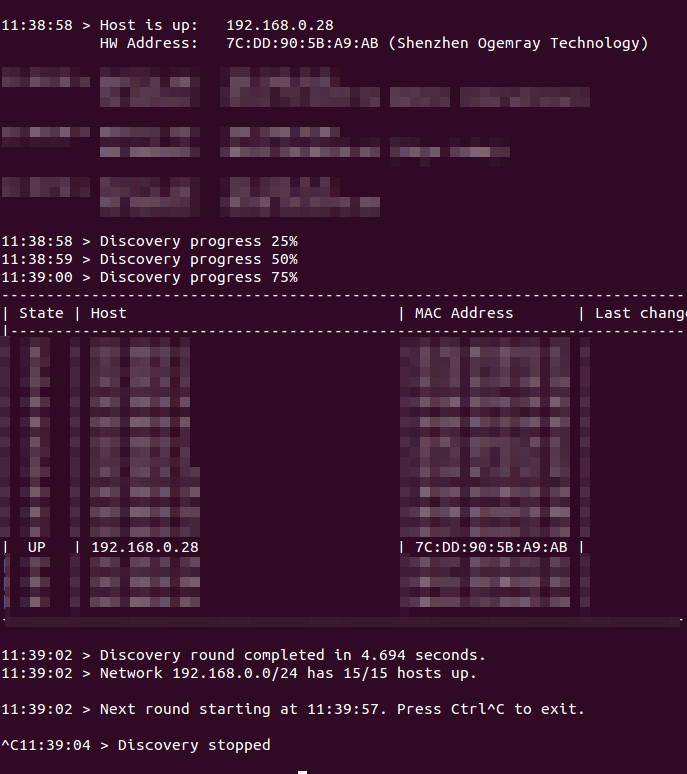
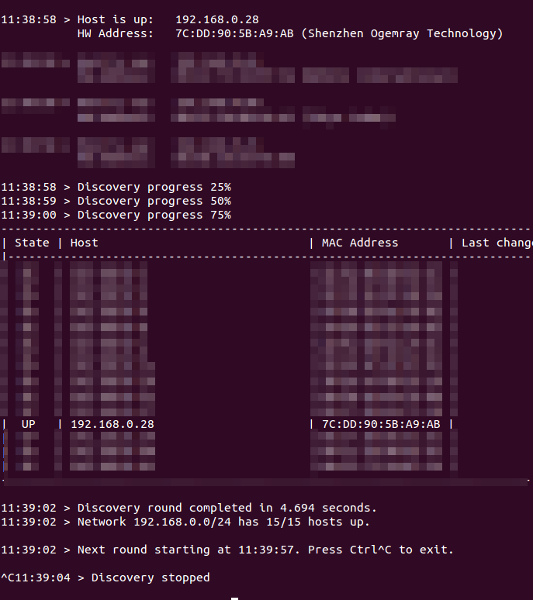
Added images and finished android, debian and ubuntu

diff --git a/handyTipsGuides/findingYourIp.md b/handyTipsGuides/findingYourIp.md
@@ -6,8 +6,28 @@ Windows
 -------
 Coming soon...
 
-Linux (Deb)
+Ubuntu 
 -----
+Tested on Ubuntu 14.04 and 13.10
+First download Fing from Overlook's website, for ubuntu and other debian based operating systems select the DEB and the architecture you are using (This is likely 64-bit on a modern computer).
+
+After it has downloaded click on the icon and then the Ubuntu Software Centre should Load, then click the install button and then fing should be installed.
+Then open up a terminal window and then run the command ```sudo fing``` and fing will run and display a list of all the IP addresses. and their devices. You are looking for the IP address of the device that shows up as Shenzhen Ogemray Technology.
+
+<img src="imageResources/fingUbuntu.png"/>
+
+
+Linux (DEB) Command Line 
+-----
+Tested on Ubuntu 14.04 and 13.10, should be compatible with Debian as well.
+First download Fing by running the following command, change the lx64 to lx32 if you are running a 32 bit version of Linux.
+```wget "http://www.overlooksoft.com/packages/download?plat=lx64&ext=deb" -O fing.deb```
+next you can install it by typing ``` sudo dpkg -i fing.deb ```
+
+It should now be installed.
+
+Next run the command ```sudo fing``` and fing will run and display a list of all the IP addresses. and their devices. You are looking for the IP address of the device that shows up as Shenzhen Ogemray Technology.
+A picture of the output can be found above in the ubuntu section.
 
 Linux (RPM)
 -----
@@ -18,6 +38,8 @@ Android
 First you will have to install an application called Fing onto your Android device, to do this you can either look in the app store for "Fing" or click the following link and click the install button. https://play.google.com/store/apps/details?id=com.overlook.android.fing
 
 After the application has installed it is as simple as launching it and then clicking the refresh icon in the top right of the application. You should see all of the devices on the network appear.
+
+<img src="imageResources/fingAndroid.png"/>
 
 A Raspberry Pi connected via the ethernet cable will show as Raspberry Pi Foundation, the Wi-Fi adapters we provide identify as Shenzhen Ogemray Technology which is the IP address we want.
 Make a note of this IP address and you are done!, You can also assign icons to each device by pressing down the button and clicking change icon. At the bottom there is one for Raspberry Pi.
